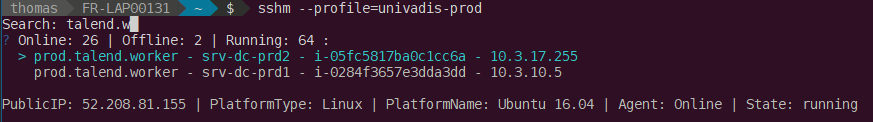
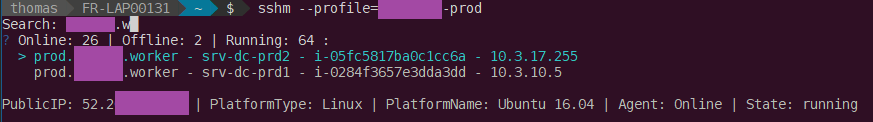
obfuscate images + add info in readme

diff --git a/README.md b/README.md
@@ -2,7 +2,13 @@
 
 ## Description
 
-Easy connect on EC2 instances thanks to AWS System Manager.
+Easy connect on EC2 instances thanks to AWS System Manager. Just use your `~/.aws/profile` to easily select the instance you want to connect on.
+
+## Why ?
+
+`SSH` is great, `SSH` is useful, we do love `SSH` as the sysdadmins we are but AWS doesn't let us add several keys except with a custom userdata or else. With `SSH` we have to set up a bastion and open security groups to some CIDR or even use a VPN. AWS SSM Agent permits to simplify this process, no need to share keys, no port to open, no instance to set up, you only use your IAM (with MFA) user and all which is done is logged in S3. See :https://docs.aws.amazon.com/systems-manager/latest/userguide/what-is-systems-manager.html.
+
+
 
 ## Prerequisites
 
@@ -18,6 +24,10 @@ Usage of sshm:
         Region (default "eu-west-1")
 ```
 You can select your instance by &larr;, &uarr;, &rarr; &darr; and filter by typing. **Enter** to validate.
+
+* Online : all running instances with a SSM Agent connected
+* Offline : all instances with a SSM Agent disconnected (agent down or instance is stopped)
+* Running : all running instances with or without SSM Agent installed
 
 ## Output Example
 
